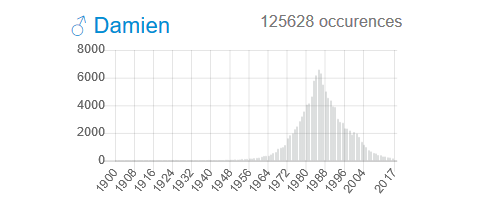
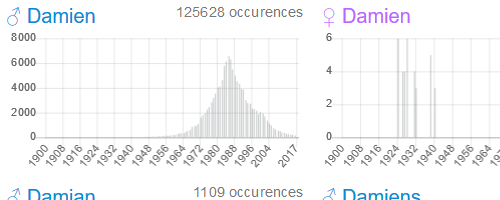
Tweak Trouve Prénom

diff --git a/_projects/2018-08-01-trouveprenom.md b/_projects/2018-08-01-trouveprenom.md
@@ -2,7 +2,7 @@
 title: 🇫🇷 Trouve Prénom
 tags: app
 image: static/content/trouveprenom/cover.png
-shortdesc: a simple website for future parents looking for names ideas.
+shortdesc: a simple website for future parents looking for names ideas. Also show statistics for each name.
 direct: http://trouveprenoms.azurewebsites.net
 ---
 
